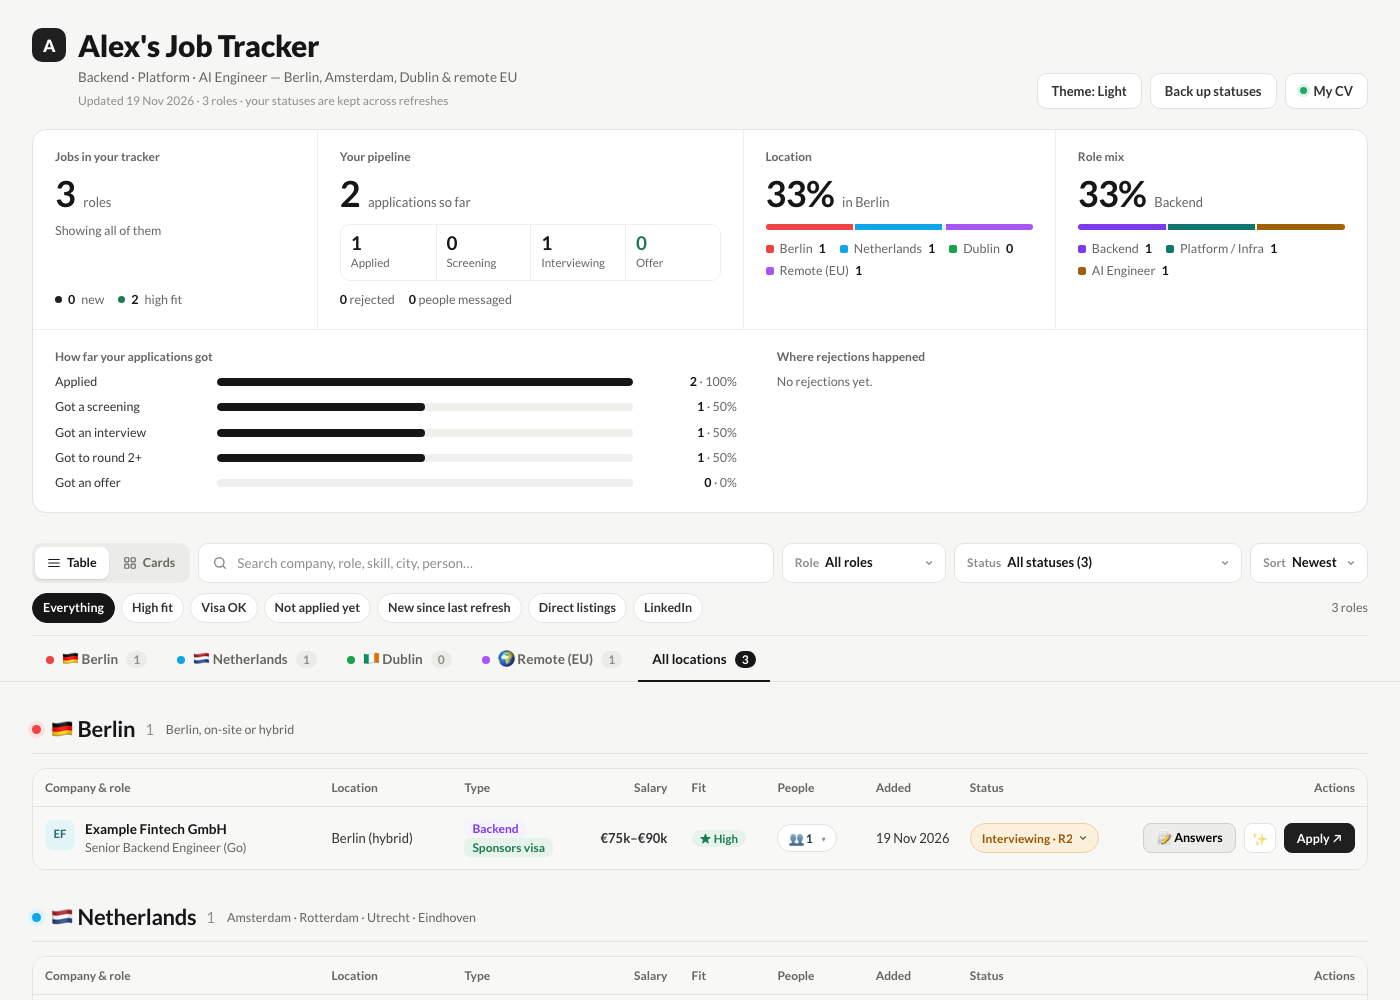
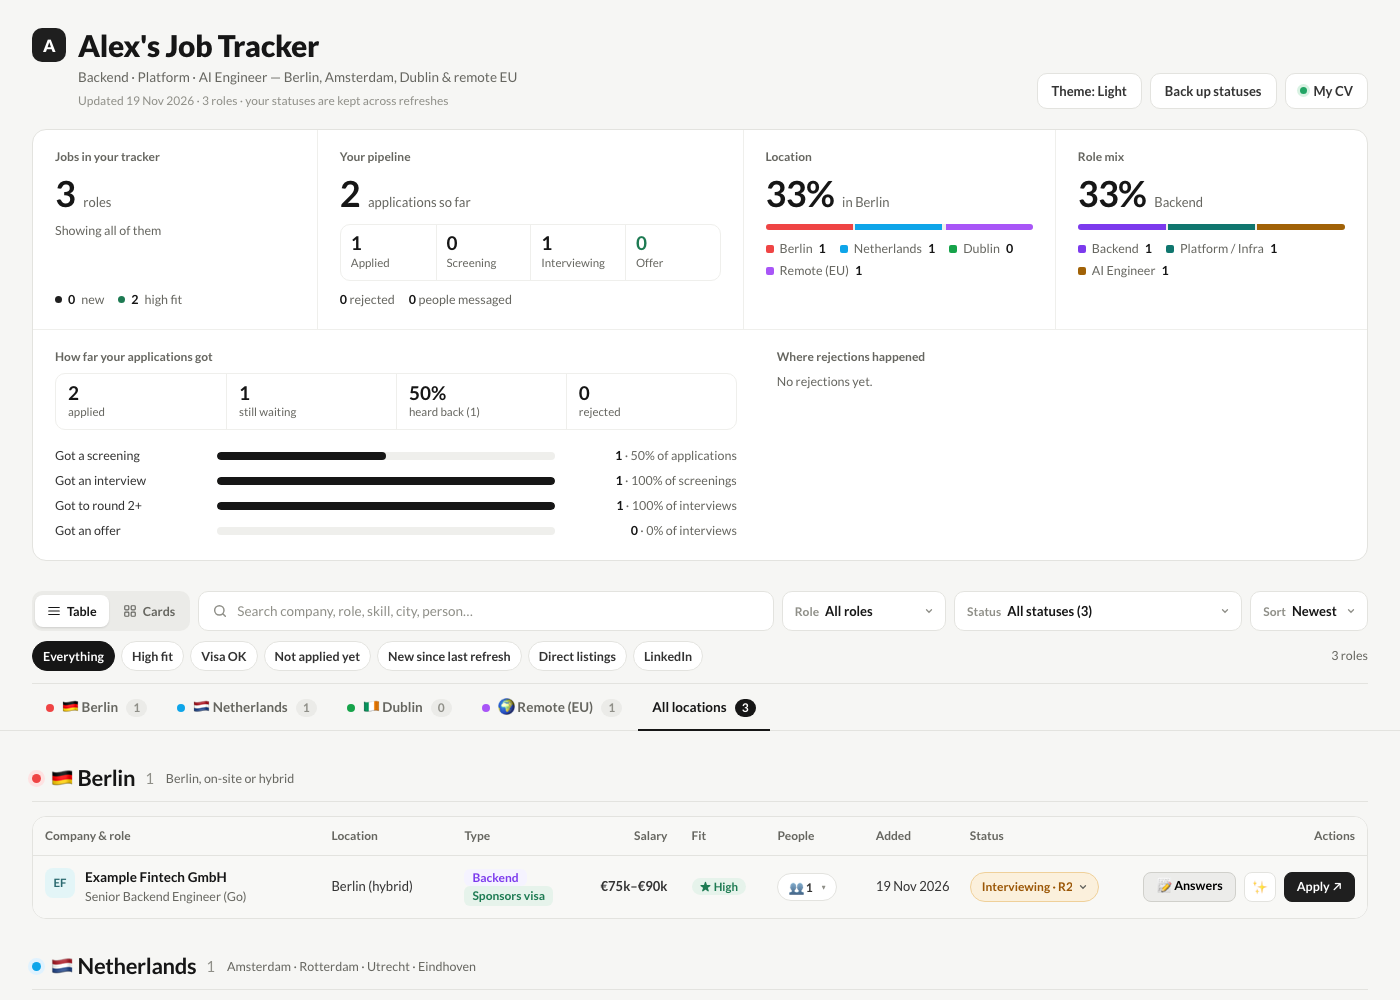
Dashboard funnel: summary strip and step-to-step rates instead of % of applied

diff --git a/examples/Example_Job_Tracker.html b/examples/Example_Job_Tracker.html
@@ -443,6 +443,12 @@ table.jt{width:100%;border-collapse:separate;border-spacing:0;font-size:13px;tab
 .oc-bar i{display:block;height:100%;border-radius:999px;background:var(--ink)}
 .oc-bar.rej i{background:var(--bad)}.oc-bar.unk i{background:var(--line-strong)}
 .oc-n{text-align:right;font-variant-numeric:tabular-nums;color:var(--muted)}.oc-n b{color:var(--ink);font-weight:650}
+.oc-step{grid-template-columns:150px 1fr 170px}
+.oc-sum{display:grid;grid-template-columns:repeat(4,minmax(0,1fr));border:1px solid var(--line2);border-radius:var(--r);margin-bottom:10px}
+.oc-sum>div{padding:8px 12px;border-left:1px solid var(--line2);display:flex;flex-direction:column;min-width:0}
+.oc-sum>div:first-child{border-left:none}
+.oc-sum b{font:700 19px/1.15 var(--f-display);color:var(--ink);font-variant-numeric:tabular-nums}
+.oc-sum span{font-size:11.5px;color:var(--muted);white-space:nowrap;overflow:hidden;text-overflow:ellipsis}
 .oc-fix{border:none;background:none;color:var(--ink);font:inherit;font-size:12.5px;font-weight:600;text-decoration:underline;text-underline-offset:2px;cursor:pointer;padding:0}
 .t-sub{font-size:11.5px;color:var(--muted);margin-top:4px;white-space:nowrap}
 .rv-r{display:flex;align-items:center;gap:12px;padding:10px 0;border-top:1px solid var(--line2)}
@@ -451,7 +457,8 @@ table.jt{width:100%;border-collapse:separate;border-spacing:0;font-size:13px;tab
 .rv-seg button{border:none;background:transparent;font:inherit;font-size:12px;font-weight:600;color:var(--muted);padding:5px 9px;border-radius:6px;cursor:pointer}
 .rv-seg button.on{background:var(--surface);color:var(--ink);box-shadow:0 1px 2px rgba(0,0,0,.12)}
 .rv-r.unk .rv-t b::after{content:'stage not recorded';margin-left:8px;font-size:11px;font-weight:600;color:var(--warn);background:var(--warn-soft);border-radius:999px;padding:1px 7px}
-@media (max-width:900px){.dc-wide{grid-template-columns:1fr}.oc-r{grid-template-columns:120px 1fr 80px}}
+@media (max-width:900px){.dc-wide{grid-template-columns:1fr}.oc-r{grid-template-columns:120px 1fr 80px}.oc-step{grid-template-columns:110px 1fr 150px}}
+@media (max-width:640px){.oc-sum{grid-template-columns:repeat(2,minmax(0,1fr))}.oc-sum>div:nth-child(3){border-left:none}.oc-sum>div:nth-child(n+3){border-top:1px solid var(--line2)}}
 @media (max-width:640px){.rv-r{flex-wrap:wrap}}
 @media (max-width:1180px){
   .dash{grid-template-columns:1fr 1fr}
@@ -2025,9 +2032,11 @@ function render(){
 }
 function updateOutcomes(){
   var box = document.getElementById('dcOut'); if(!box) return;
-  var reach = [0, 0, 0, 0], rej = {Applied:0, Screening:0, Interviewing:0, Offer:0}, unk = 0, rejTot = 0, r2 = 0, rejR = {};
+  var reach = [0, 0, 0, 0], rej = {Applied:0, Screening:0, Interviewing:0, Offer:0}, unk = 0, rejTot = 0, r2 = 0, rejR = {}, waiting = 0, heard = 0;
   JOBS.forEach(function(j){
     var st = getStatus(j), n = furthestN(j), mr = maxRound(j);
+    if(st === 'Applied') waiting++;
+    if(n >= 2 || st === 'Rejected') heard++;
     if(st === 'Rejected'){ rejTot++; if(n) rej[STAGES[n - 1]]++; else unk++; if(!n) n = 1;
       if(n === 3){ var rk = Math.max(1, mr); rejR[rk] = (rejR[rk] || 0) + 1; } }
     for(var k = 0; k < n; k++) reach[k]++;
@@ -2037,9 +2046,21 @@ function updateOutcomes(){
   if(!reach[0]) return;
   function row(lab, v, of, cls){ var pc = of ? Math.round(v / of * 100) : 0;
     return '<div class="oc-r"><span>' + lab + '</span><span class="oc-bar' + (cls ? ' ' + cls : '') + '"><i style="width:' + pc + '%"></i></span><span class="oc-n"><b>' + v + '</b> · ' + pc + '%</span></div>'; }
+  // Each step is measured against the step before it, so the bars show where the drop-off is.
+  function step(lab, v, of, ofLab){ var pc = of ? Math.round(v / of * 100) : 0;
+    return '<div class="oc-r oc-step"><span>' + lab + '</span><span class="oc-bar"><i style="width:' + pc + '%"></i></span><span class="oc-n"><b>' + v + '</b> · ' + (of ? pc + '% of ' + ofLab : '—') + '</span></div>'; }
+  function pct(v, of){ return of ? Math.round(v / of * 100) + '%' : '—'; }
   document.getElementById('ocFunnel').innerHTML =
-    row('Applied', reach[0], reach[0]) + row('Got a screening', reach[1], reach[0]) +
-    row('Got an interview', reach[2], reach[0]) + (r2 ? row('Got to round 2+', r2, reach[0]) : '') + row('Got an offer', reach[3], reach[0]);
+    '<div class="oc-sum">' +
+      '<div><b>' + reach[0] + '</b><span>applied</span></div>' +
+      '<div><b>' + waiting + '</b><span>still waiting</span></div>' +
+      '<div><b>' + pct(heard, reach[0]) + '</b><span>heard back (' + heard + ')</span></div>' +
+      '<div><b>' + rejTot + '</b><span>rejected</span></div>' +
+    '</div>' +
+    step('Got a screening', reach[1], reach[0], 'applications') +
+    step('Got an interview', reach[2], reach[1], 'screenings') +
+    (r2 ? step('Got to round 2+', r2, reach[2], 'interviews') : '') +
+    step('Got an offer', reach[3], reach[2], 'interviews');
   document.getElementById('ocRej').innerHTML = rejTot ?
     row('After applying', rej.Applied, rejTot, 'rej') + row('After screening', rej.Screening, rejTot, 'rej') +
     (Object.keys(rejR).length > 1 ? Object.keys(rejR).sort().map(function(k){ return row('After interview R' + k, rejR[k], rejTot, 'rej'); }).join('') : row('After interviewing', rej.Interviewing, rejTot, 'rej')) + (rej.Offer ? row('After an offer', rej.Offer, rejTot, 'rej') : '') +

diff --git a/template/tracker.html b/template/tracker.html
@@ -443,6 +443,12 @@ table.jt{width:100%;border-collapse:separate;border-spacing:0;font-size:13px;tab
 .oc-bar i{display:block;height:100%;border-radius:999px;background:var(--ink)}
 .oc-bar.rej i{background:var(--bad)}.oc-bar.unk i{background:var(--line-strong)}
 .oc-n{text-align:right;font-variant-numeric:tabular-nums;color:var(--muted)}.oc-n b{color:var(--ink);font-weight:650}
+.oc-step{grid-template-columns:150px 1fr 170px}
+.oc-sum{display:grid;grid-template-columns:repeat(4,minmax(0,1fr));border:1px solid var(--line2);border-radius:var(--r);margin-bottom:10px}
+.oc-sum>div{padding:8px 12px;border-left:1px solid var(--line2);display:flex;flex-direction:column;min-width:0}
+.oc-sum>div:first-child{border-left:none}
+.oc-sum b{font:700 19px/1.15 var(--f-display);color:var(--ink);font-variant-numeric:tabular-nums}
+.oc-sum span{font-size:11.5px;color:var(--muted);white-space:nowrap;overflow:hidden;text-overflow:ellipsis}
 .oc-fix{border:none;background:none;color:var(--ink);font:inherit;font-size:12.5px;font-weight:600;text-decoration:underline;text-underline-offset:2px;cursor:pointer;padding:0}
 .t-sub{font-size:11.5px;color:var(--muted);margin-top:4px;white-space:nowrap}
 .rv-r{display:flex;align-items:center;gap:12px;padding:10px 0;border-top:1px solid var(--line2)}
@@ -451,7 +457,8 @@ table.jt{width:100%;border-collapse:separate;border-spacing:0;font-size:13px;tab
 .rv-seg button{border:none;background:transparent;font:inherit;font-size:12px;font-weight:600;color:var(--muted);padding:5px 9px;border-radius:6px;cursor:pointer}
 .rv-seg button.on{background:var(--surface);color:var(--ink);box-shadow:0 1px 2px rgba(0,0,0,.12)}
 .rv-r.unk .rv-t b::after{content:'stage not recorded';margin-left:8px;font-size:11px;font-weight:600;color:var(--warn);background:var(--warn-soft);border-radius:999px;padding:1px 7px}
-@media (max-width:900px){.dc-wide{grid-template-columns:1fr}.oc-r{grid-template-columns:120px 1fr 80px}}
+@media (max-width:900px){.dc-wide{grid-template-columns:1fr}.oc-r{grid-template-columns:120px 1fr 80px}.oc-step{grid-template-columns:110px 1fr 150px}}
+@media (max-width:640px){.oc-sum{grid-template-columns:repeat(2,minmax(0,1fr))}.oc-sum>div:nth-child(3){border-left:none}.oc-sum>div:nth-child(n+3){border-top:1px solid var(--line2)}}
 @media (max-width:640px){.rv-r{flex-wrap:wrap}}
 @media (max-width:1180px){
   .dash{grid-template-columns:1fr 1fr}
@@ -2020,9 +2027,11 @@ function render(){
 }
 function updateOutcomes(){
   var box = document.getElementById('dcOut'); if(!box) return;
-  var reach = [0, 0, 0, 0], rej = {Applied:0, Screening:0, Interviewing:0, Offer:0}, unk = 0, rejTot = 0, r2 = 0, rejR = {};
+  var reach = [0, 0, 0, 0], rej = {Applied:0, Screening:0, Interviewing:0, Offer:0}, unk = 0, rejTot = 0, r2 = 0, rejR = {}, waiting = 0, heard = 0;
   JOBS.forEach(function(j){
     var st = getStatus(j), n = furthestN(j), mr = maxRound(j);
+    if(st === 'Applied') waiting++;
+    if(n >= 2 || st === 'Rejected') heard++;
     if(st === 'Rejected'){ rejTot++; if(n) rej[STAGES[n - 1]]++; else unk++; if(!n) n = 1;
       if(n === 3){ var rk = Math.max(1, mr); rejR[rk] = (rejR[rk] || 0) + 1; } }
     for(var k = 0; k < n; k++) reach[k]++;
@@ -2032,9 +2041,21 @@ function updateOutcomes(){
   if(!reach[0]) return;
   function row(lab, v, of, cls){ var pc = of ? Math.round(v / of * 100) : 0;
     return '<div class="oc-r"><span>' + lab + '</span><span class="oc-bar' + (cls ? ' ' + cls : '') + '"><i style="width:' + pc + '%"></i></span><span class="oc-n"><b>' + v + '</b> · ' + pc + '%</span></div>'; }
+  // Each step is measured against the step before it, so the bars show where the drop-off is.
+  function step(lab, v, of, ofLab){ var pc = of ? Math.round(v / of * 100) : 0;
+    return '<div class="oc-r oc-step"><span>' + lab + '</span><span class="oc-bar"><i style="width:' + pc + '%"></i></span><span class="oc-n"><b>' + v + '</b> · ' + (of ? pc + '% of ' + ofLab : '—') + '</span></div>'; }
+  function pct(v, of){ return of ? Math.round(v / of * 100) + '%' : '—'; }
   document.getElementById('ocFunnel').innerHTML =
-    row('Applied', reach[0], reach[0]) + row('Got a screening', reach[1], reach[0]) +
-    row('Got an interview', reach[2], reach[0]) + (r2 ? row('Got to round 2+', r2, reach[0]) : '') + row('Got an offer', reach[3], reach[0]);
+    '<div class="oc-sum">' +
+      '<div><b>' + reach[0] + '</b><span>applied</span></div>' +
+      '<div><b>' + waiting + '</b><span>still waiting</span></div>' +
+      '<div><b>' + pct(heard, reach[0]) + '</b><span>heard back (' + heard + ')</span></div>' +
+      '<div><b>' + rejTot + '</b><span>rejected</span></div>' +
+    '</div>' +
+    step('Got a screening', reach[1], reach[0], 'applications') +
+    step('Got an interview', reach[2], reach[1], 'screenings') +
+    (r2 ? step('Got to round 2+', r2, reach[2], 'interviews') : '') +
+    step('Got an offer', reach[3], reach[2], 'interviews');
   document.getElementById('ocRej').innerHTML = rejTot ?
     row('After applying', rej.Applied, rejTot, 'rej') + row('After screening', rej.Screening, rejTot, 'rej') +
     (Object.keys(rejR).length > 1 ? Object.keys(rejR).sort().map(function(k){ return row('After interview R' + k, rejR[k], rejTot, 'rej'); }).join('') : row('After interviewing', rej.Interviewing, rejTot, 'rej')) + (rej.Offer ? row('After an offer', rej.Offer, rejTot, 'rej') : '') +

diff --git a/docs/tracker-design.md b/docs/tracker-design.md
@@ -82,7 +82,9 @@ to the user.
   (Applied / Screened / Interviewed) that sets `rejStage`, a manual correction that wins over history.
   Unrecorded ones are listed first.
 - **Dashboard outcomes row** (full width, shown once anything is applied): *How far your applications
-  got* (applied, got a screening, got an interview, got an offer, each with count and % of applied) and
+  got*: a summary strip (applied, still waiting, % heard back, rejected), then steps measured
+  against the step before (screenings of applications, interviews of screenings, round 2+ and offers
+  of interviews), so the bars show where the drop-off is and
   *Where rejections happened* (after applying / screening / interviewing, plus not recorded, as % of
   rejections), with *Fill in N missing* / *Review* opening the dialog.
 - **Interview rounds.** The status menu lists *Interviewing · R1* … *R5* (stored as status
